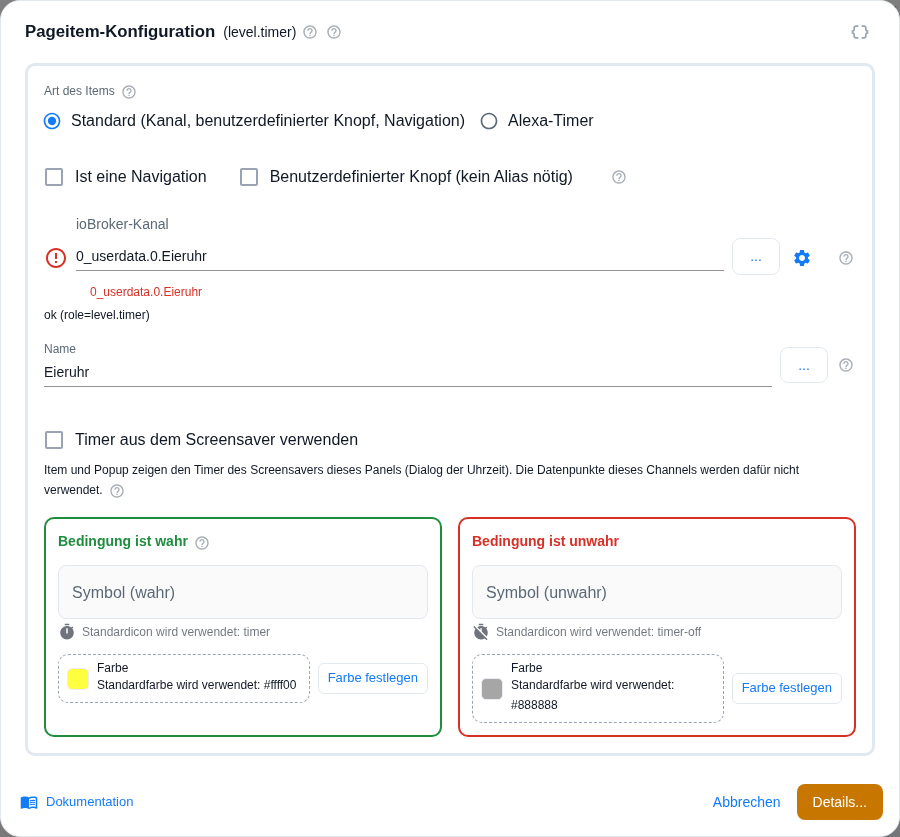
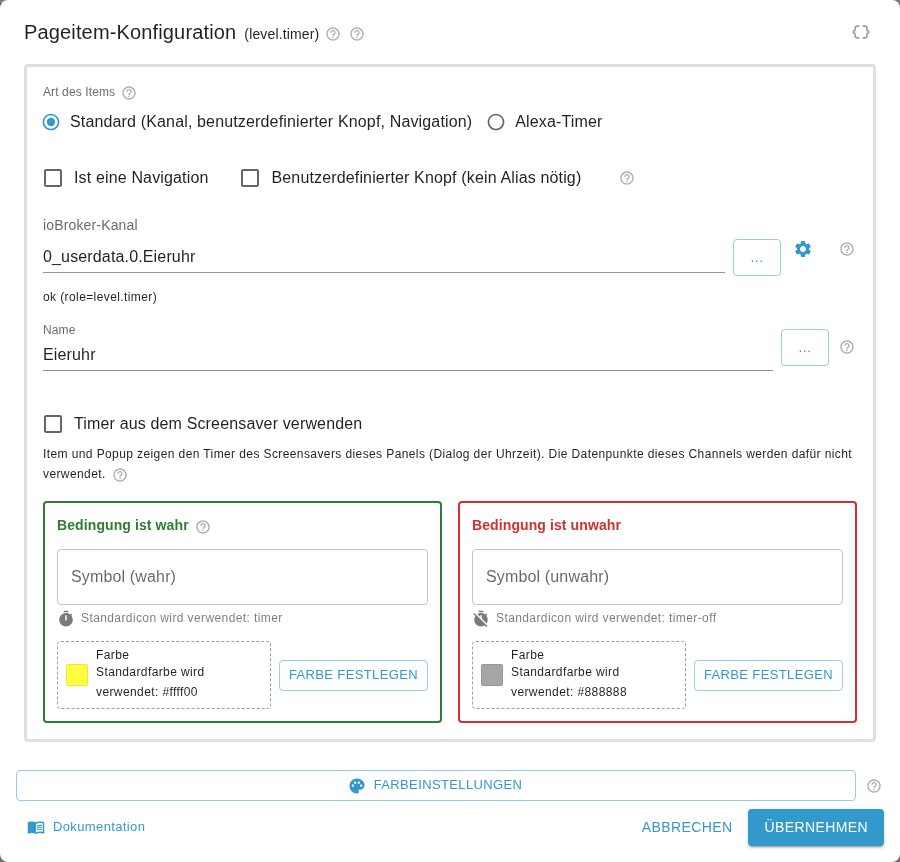
docs(popupTimer): empty level.timer channel shows no warning sign and "Apply"
Egg timer quick start, section 5 and PageConfig-Dialoge (check on apply)
follow the fix: a channel without states counts as fault only if its role
has a mandatory data point. Picture timer-09 taken again.

diff --git a/doc/de/popupTimer.md b/doc/de/popupTimer.md
@@ -59,12 +59,12 @@ Wer unsicher ist: Für eine einfache Eieruhr reicht **Intern**. Die genauen Erke
 2. **Pageitem anlegen.** Im Tab **PageConfig** eine Seite mit Pageitems öffnen (z. B. eine cardEntities oder cardGrid) und auf einen freien Platz klicken. – *Ergebnis: die Pageitem-Konfiguration ist offen.*
 3. **Kanal wählen.** Bei **Art des Items** bleibt **Standard** stehen. Im Feld **ioBroker-Kanal** den Kanal `0_userdata.0.Eieruhr` wählen. – *Ergebnis: neben dem Titel steht `(level.timer)`, unter dem Feld „ok (role=level.timer)“.*
 
-   Weil der Kanal keine Datenpunkte hat, steht links am Feld zusätzlich das rote Warnzeichen, die ID darunter in Rot, und der Knopf am Fuß heißt **Details...** statt **Übernehmen**. Bei der Eieruhr ist das normal: Der Admin markiert so jeden Kanal ganz ohne Datenpunkte (siehe [Prüfzeichen](PageConfig-Dialoge#der-iobroker-kanal-und-seine-prüfzeichen)). Am Panel arbeitet das Item trotzdem.
+   Dass der Kanal keine Datenpunkte hat, ist hier kein Fehler: Bei `level.timer` ist kein Datenpunkt Pflicht, deshalb steht am Feld kein Warnzeichen und der Knopf am Fuß heißt **Übernehmen** (siehe [Prüfzeichen](PageConfig-Dialoge#der-iobroker-kanal-und-seine-prüfzeichen)).
 
-   ![Die Pageitem-Konfiguration mit dem Kanal 0_userdata.0.Eieruhr: Titel (level.timer), ok (role=level.timer), rotes Warnzeichen am Feld, weil der Kanal keine Datenpunkte hat, und der Knopf Details...](../Pictures/popupTimer/timer-09-eieruhr-item.png)
+   ![Die Pageitem-Konfiguration mit dem Kanal 0_userdata.0.Eieruhr: Titel (level.timer), ok (role=level.timer), kein Warnzeichen am Feld, obwohl der Kanal keine Datenpunkte hat, und der Knopf Übernehmen](../Pictures/popupTimer/timer-09-eieruhr-item.png)
 
 4. **Name eintragen** (optional), z. B. *Eieruhr*. Ohne Namen nimmt der Adapter den Namen des Kanals, zuletzt *Timer*. – *Ergebnis: so heißt der Eintrag in der Liste und im Popup.*
-5. **Übernehmen** (hier **Details...**, siehe Schritt 3 – der Adapter prüft das Item und übernimmt es) und danach im Tab **Speichern**. – *Ergebnis: der Adapter startet neu, die Seite zeigt den Eintrag mit `00:00:00`.*
+5. **Übernehmen** (der Adapter prüft das Item und übernimmt es) und danach im Tab **Speichern**. – *Ergebnis: der Adapter startet neu, die Seite zeigt den Eintrag mit `00:00:00`.*
 6. **Am Panel ausprobieren:** auf den Eintrag tippen, im Popup 5 Minuten einstellen, **Start**. – *Ergebnis: die Zeit läuft rückwärts; bei 0 bleibt `00:00:00` stehen, bis **Fertig** gedrückt wird.*
 
 Soll ein Skript vom Ablauf erfahren, legt man im Kanal zusätzlich `STATE` an (`boolean`, Rolle `button`, beschreibbar): Er wird `true`, wenn die Zeit abläuft und wenn **Fertig** gedrückt wird.
@@ -193,7 +193,7 @@ Das Häkchen **Timer aus dem Screensaver verwenden** steht in der Pageitem-Konfi
 ![Das Häkchen „Timer aus dem Screensaver verwenden" im Item-Dialog](../Pictures/screensaverAdmin/admin-25-item-screensaver-timer.png)
 
 - Liste und Popup zeigen denselben Timer wie der Bildschirmschoner dieses Panels – auch, wenn er dort weggetippt ist; bei Slot-Mustern den dort gerade gewählten Slot.
-- Die Datenpunkte des Kanals wertet das Item nicht aus – es braucht sie nicht. Der Admin prüft den Kanal aber wie jeden anderen: Hat er die Pflicht-Datenpunkte der Rolle `level.timer` nicht, steht am Feld das rote ✖ (siehe [Prüfzeichen](PageConfig-Dialoge#der-iobroker-kanal-und-seine-prüfzeichen)). Am Panel arbeitet das Item trotzdem.
+- Die Datenpunkte des Kanals wertet das Item nicht aus – es braucht sie nicht. Weil bei der Rolle `level.timer` kein Datenpunkt Pflicht ist, zeigt das Feld auch bei einem Kanal ganz ohne Datenpunkte kein Fehlerzeichen (siehe [Prüfzeichen](PageConfig-Dialoge#der-iobroker-kanal-und-seine-prüfzeichen)).
 - Das Häkchen ist gesperrt, wenn der Bildschirmschoner dieses Panels genau dieses Item als Quelle seines Timers nutzt: *Nicht möglich: Der Screensaver dieses Panels nutzt genau dieses Item als Quelle seines Timers, das wäre ein Kreis.*
 
 **Start** schreibt zuerst den Daten-Datenpunkt des Bildschirmschoner-Timers und dann den An/Aus-Datenpunkt. Welcher Wert in die Daten kommt, richtet sich nach dem Datenpunkt: die Restzeit bei der Einheit `s`, `sec` oder `ms` oder der Rolle `value.timer` oder `level.timer`, ein ISO-Datum bei einem Text-Datenpunkt, sonst die Endzeit als Zeitstempel in Millisekunden. Bei Slot-Mustern nimmt Start den niedrigsten Slot, dessen An/Aus nicht wahr ist – gibt es keinen, ist kein Start möglich. **Abbrechen** und **Fertig** setzen An/Aus des angezeigten Slots auf falsch. Eine Pause gibt es hier nicht. Ist die Quelle des Bildschirmschoners ein Pageitem, startet und beendet das Häkchen-Item dieses Pageitem.

diff --git a/doc/en/popupTimer.md b/doc/en/popupTimer.md
@@ -59,12 +59,12 @@ If in doubt: for a simple egg timer **Internal** is enough. The exact rules are 
 2. **Create a page item.** In the **PageConfig** tab open a page with page items (e.g. a cardEntities or cardGrid) and click on a free place. – *Result: the Pageitem Configuration is open.*
 3. **Choose the channel.** **Kind of item** stays at **Standard**. In the field **ioBroker Channel** choose the channel `0_userdata.0.EggTimer`. – *Result: next to the title it says `(level.timer)`, below the field "ok (role=level.timer)".*
 
-   Because the channel has no states, the red warning sign also stands left of the field, the ID below it in red, and the button at the bottom reads **Details...** instead of **Apply**. For the egg timer that is normal: the admin marks every channel without any states like this (see [check marks](PageConfig-Dialoge#the-iobroker-channel-and-its-check-marks)). The item still works on the panel.
+   That the channel has no states is not an error here: no state of `level.timer` is mandatory, so there is no warning sign at the field and the button at the bottom reads **Apply** (see [check marks](PageConfig-Dialoge#the-iobroker-channel-and-its-check-marks)).
 
-   ![The Pageitem Configuration with the channel 0_userdata.0.Eieruhr: title (level.timer), ok (role=level.timer), the red warning sign at the field because the channel has no states, and the button Details...](../Pictures/popupTimer/timer-09-eieruhr-item.png)
+   ![The Pageitem Configuration with the channel 0_userdata.0.Eieruhr: title (level.timer), ok (role=level.timer), no warning sign at the field although the channel has no states, and the button Apply](../Pictures/popupTimer/timer-09-eieruhr-item.png)
 
 4. **Enter a name** (optional), e.g. *Egg timer*. Without a name the adapter takes the name of the channel, as a last resort *Timer*. – *Result: that is the name of the entry in the list and in the popup.*
-5. **Apply** (here **Details...**, see step 3 – the adapter checks the item and takes it over), then **Save** in the tab. – *Result: the adapter restarts, the page shows the entry with `00:00:00`.*
+5. **Apply** (the adapter checks the item and takes it over), then **Save** in the tab. – *Result: the adapter restarts, the page shows the entry with `00:00:00`.*
 6. **Try it on the panel:** tap the entry, set 5 minutes in the popup, **Start**. – *Result: the time runs down; at 0 `00:00:00` stays until **Finish** is pressed.*
 
 If a script should learn about the end, create `STATE` in the channel as well (`boolean`, role `button`, writable): it becomes `true` when the time runs out and when **Finish** is pressed.
@@ -193,7 +193,7 @@ The checkbox **Use the timer of the screensaver** stands in the Pageitem Configu
 ![The checkbox "Use the timer of the screensaver" in the item dialog](../Pictures/screensaverAdmin/admin-25-item-screensaver-timer.png)
 
 - List and popup show the same timer as the screensaver of this panel – also while it is tapped away there; with slot patterns the slot chosen there right now.
-- The item does not read the states of the channel – it does not need them. The admin checks the channel like any other one though: without the mandatory states of the role `level.timer` the red ✖ stands at the field (see [check marks](PageConfig-Dialoge#the-iobroker-channel-and-its-check-marks)). The item still works on the panel.
+- The item does not read the states of the channel – it does not need them. Because no state of the role `level.timer` is mandatory, the field shows no error sign even for a channel without any states (see [check marks](PageConfig-Dialoge#the-iobroker-channel-and-its-check-marks)).
 - The checkbox is locked when the screensaver of this panel uses exactly this item as the source of its timer: *Not possible: the screensaver of this panel uses this item as the source of its timer, that would be a circle.*
 
 **Start** writes the data state of the screensaver timer first and then its on/off state. Which value goes into the data depends on the state: the remaining time with the unit `s`, `sec` or `ms` or the role `value.timer` or `level.timer`, an ISO date for a text state, otherwise the end as a timestamp in milliseconds. With slot patterns Start takes the lowest slot whose on/off is not true – without one no start is possible. **Cancel** and **Finish** set the on/off state of the shown slot to false. There is no pause here. If the source of the screensaver is a page item, the checkbox item starts and stops that page item.

diff --git a/doc/de/PageConfig-Dialoge.md b/doc/de/PageConfig-Dialoge.md
@@ -311,7 +311,7 @@ Titel *Modusliste (inSel_Alias / modeList)*. Damit bekommt ein Pageitem eine **A
 
 Die Meldungen sind die **englischen Logtexte** des Adapters, unabhängig von der Sprache des Admins.
 
-Sind schon vorher Datenpunkte als fehlend oder doppelt erkannt oder passt die Rolle nicht, heißt der Knopf nicht *Übernehmen*, sondern **Details…** und ist orange — er führt direkt in dieses Fenster.
+Sind schon vorher Datenpunkte als fehlend oder doppelt erkannt oder passt die Rolle nicht, heißt der Knopf nicht *Übernehmen*, sondern **Details…** und ist orange — er führt direkt in dieses Fenster. Ein Kanal ganz ohne Datenpunkte zählt dazu, außer seine Rolle hat keinen Pflicht-Datenpunkt — etwa `level.timer`, der leer ein interner Timer ist.
 
 > **Ein fehlendes Objekt ist etwas anderes als ein fehlender Datenpunkt.** Steht unter dem Kanalfeld *Objekt nicht in ioBroker gefunden*, sperrt der Dialog alle Felder außer der ID, und der Knopf heißt zwar **Details…**, bleibt aber **grau und ohne Funktion** (er ist derselbe Knopf wie *Übernehmen* und braucht einen existierenden Kanal). Der einzige Weg aus diesem Zustand ist, die ID richtigzustellen — oder **Abbrechen**.
 

diff --git a/doc/en/PageConfig-Dialoge.md b/doc/en/PageConfig-Dialoge.md
@@ -311,7 +311,7 @@ Title *Mode list (inSel_Alias / modeList)*. This gives a page item a **selection
 
 The messages are the **English log texts** of the adapter, regardless of the language of the admin.
 
-If states were already detected as missing or duplicated, or the role does not fit, the button is not called *Apply* but **Details…** and is orange — it leads straight into that window.
+If states were already detected as missing or duplicated, or the role does not fit, the button is not called *Apply* but **Details…** and is orange — it leads straight into that window. A channel without any states counts as well, unless its role has no mandatory state — e.g. `level.timer`, which is an internal timer when empty.
 
 > **A missing object is not the same as a missing state.** If the channel field says *Object not found in ioBroker*, the dialog locks every field except the ID, and while the button is labelled **Details…** it stays **grey and does nothing** (it is the same button as *Apply* and needs an existing channel). The only way out of that state is to correct the ID — or **Cancel**.
 
